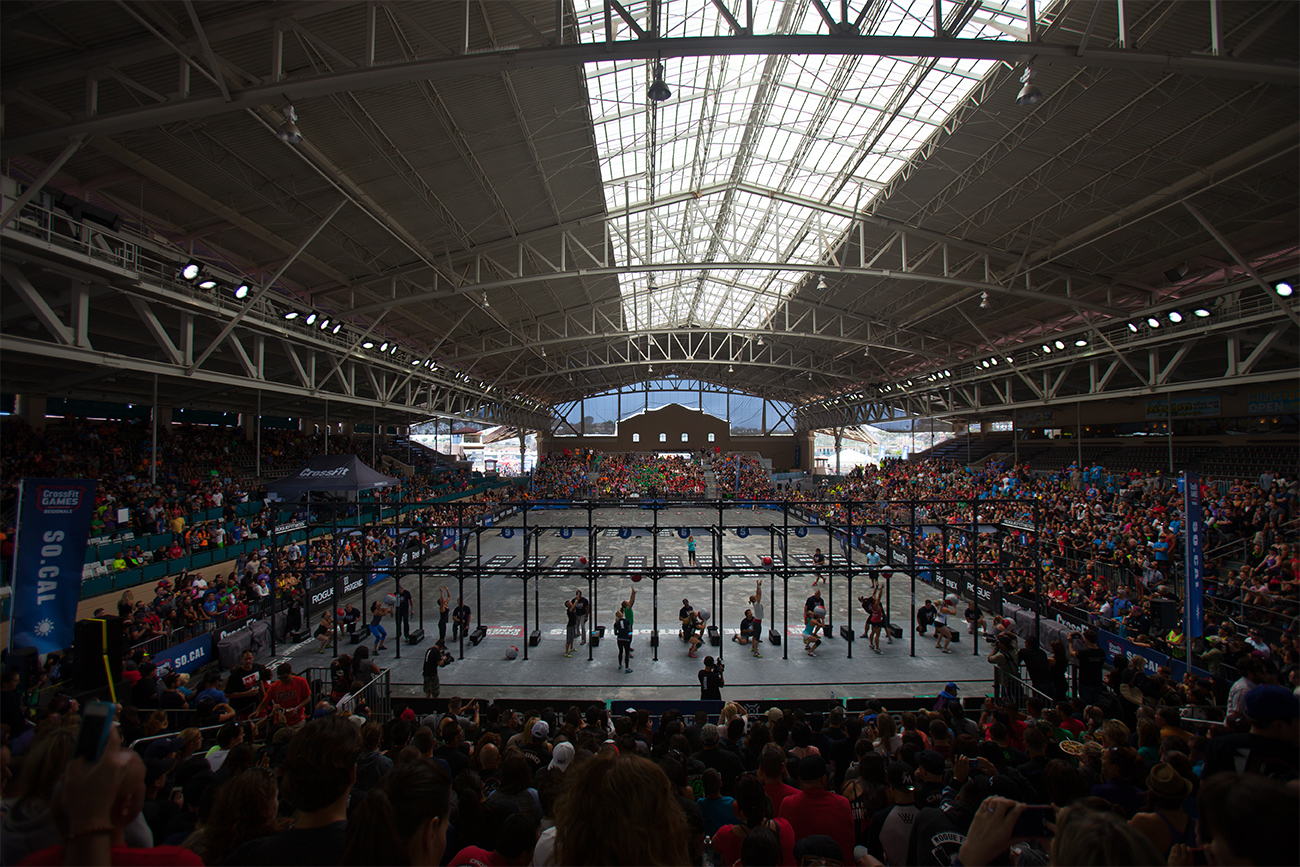
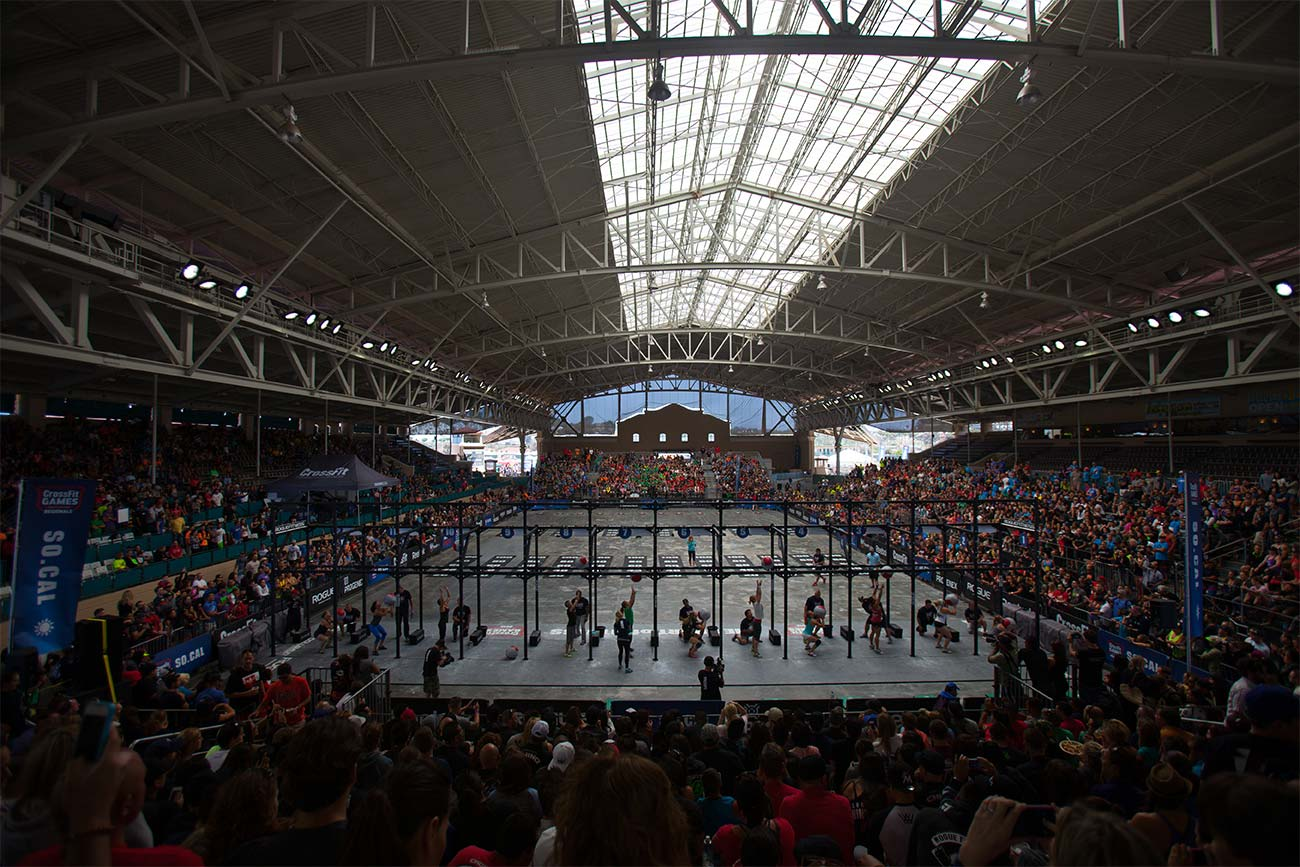
tightening the animations and optimizing the images

diff --git a/js/app.js b/js/app.js
@@ -129,7 +129,7 @@ angular.module('website', [])
                 TweenMax.set(element, {position: 'absolute'});
             },
             start: function (element, done) {
-                TweenMax.to(element, 1, {left: -$window.innerWidth, onComplete: done});
+                TweenMax.to(element, 0.5, {left: -$window.innerWidth, onComplete: done});
             }
         }
     })
@@ -144,7 +144,7 @@ angular.module('website', [])
             },
             start: function (element, done) {
                 var $scope = getScope(element);
-                TweenMax.to(element, 1, {left: 0, onComplete: function () {
+                TweenMax.to(element, 0.5, {left: 0, onComplete: function () {
                     $scope.$apply(function () {
                         $scope.inTransit = false;
                     });
